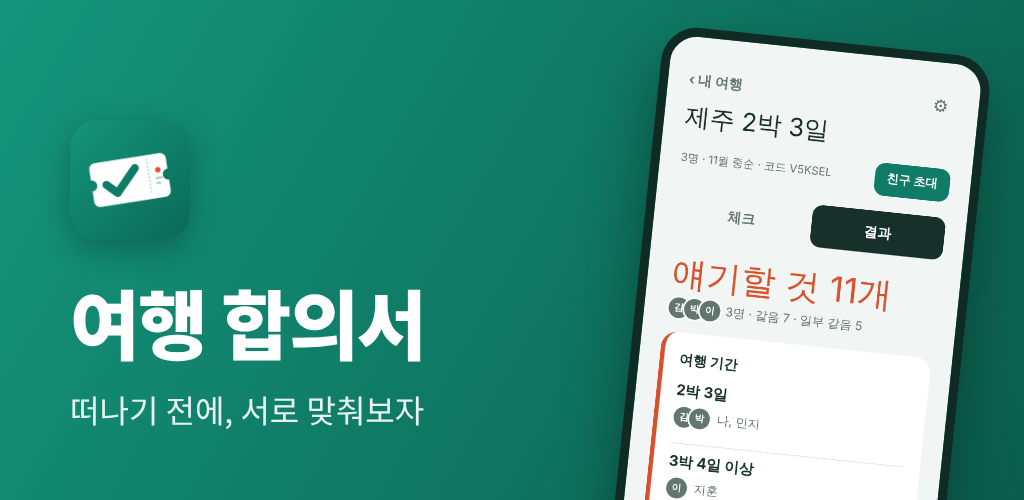
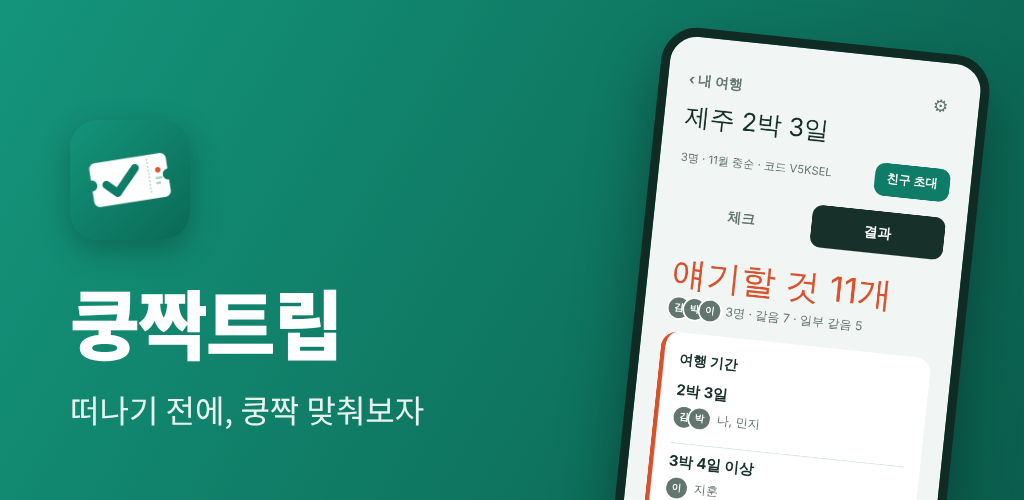
앱 이름을 쿵짝트립으로 변경
앱 이름, 웹 제목, 초대 문구, 개인정보처리방침, 스토어 문구, 그래픽 이미지

Claude-Session: https://claude.ai/code/session_01MvEGxZaX7ktKATiRK7xnPK

Changed region(s): [[0.0625, 0.57, 0.4375, 0.72], [0.2188, 0.78, 0.3125, 0.87]]

diff --git a/src/main.js b/src/main.js
@@ -72,7 +72,7 @@ function renderLogin(msg) {
     btn.disabled = false;
   });
   $('#app').replaceChildren(el('div', { class: 'screen login' },
-    el('div', { class: 'eyebrow', text: '여행 합의서' }),
+    el('div', { class: 'eyebrow', text: '쿵짝트립' }),
     el('h1', { text: '떠나기 전에\n맞춰보자' }),
     el('p', { text: '친구들과 여행 취향을 체크하고, 누가 뭘 골랐는지 한 장으로 비교해요. 바뀐 답은 기록으로 남아요.' }),
     store.get('pendingJoin') ? el('div', { class: 'notice', text: `초대받은 여행(${store.get('pendingJoin')})이 있어요. 로그인하면 바로 들어가요.` }) : null,
@@ -238,12 +238,12 @@ function renderHeaderOnly() {}
 function renderBody() { if (tab === 'mine') renderMine(); else renderAll(); }
 
 async function shareTrip() {
-  const text = `[여행 합의서] '${trip.name}' 같이 체크하자!\n초대 코드: ${trip.code}`
+  const text = `[쿵짝트립] '${trip.name}' 같이 체크하자!\n초대 코드: ${trip.code}`
     + (STORE_URL ? `\n\n갤럭시(안드로이드): 앱 받고 '코드로 참여'\n${STORE_URL}` : '')
     + (WEB_URL ? `\n\n아이폰·PC: 아래 링크 누르면 바로 참여\n${WEB_URL}/?join=${trip.code}` : '');
   const copy = async () => { try { await navigator.clipboard.writeText(text); toast('초대 문구를 복사했어요. 카톡에 붙여넣으세요'); } catch { toast(`초대 코드: ${trip.code}`); } };
   try {
-    if (Capacitor.isNativePlatform()) await Share.share({ title: '여행 합의서 초대', text, dialogTitle: '친구 초대' });
+    if (Capacitor.isNativePlatform()) await Share.share({ title: '쿵짝트립 초대', text, dialogTitle: '친구 초대' });
     else if (navigator.share) await navigator.share({ text });
     else await copy();
   } catch (e) { if (e?.name !== 'AbortError') await copy(); }   // 공유 창이 안 되는 환경이면 복사로

diff --git a/public/privacy.html b/public/privacy.html
@@ -3,7 +3,7 @@
 <head>
 <meta charset="utf-8">
 <meta name="viewport" content="width=device-width, initial-scale=1">
-<title>여행 합의서 개인정보처리방침</title>
+<title>쿵짝트립 개인정보처리방침</title>
 <style>
   :root{--bg:#F1F5F3;--paper:#fff;--ink:#17302A;--muted:#62766F;--accent:#0E7C66}
   @media (prefers-color-scheme:dark){:root{--bg:#0F1917;--paper:#172420;--ink:#E4EEEA;--muted:#97ABA5;--accent:#4CC6A6}}
@@ -17,9 +17,9 @@
 <body>
 <main>
   <h1>개인정보처리방침</h1>
-  <p class="muted">여행 합의서 · 시행일 2026년 10월 26일</p>
+  <p class="muted">쿵짝트립 · 시행일 2026년 10월 26일</p>
 
-  <p>여행 합의서(이하 "앱")는 친구들과 여행 취향을 체크하고 비교하는 서비스예요. 서비스에 꼭 필요한 정보만 받고, 다른 목적으로 쓰거나 팔지 않아요.</p>
+  <p>쿵짝트립(이하 "앱")은 친구들과 여행 취향을 체크하고 비교하는 서비스예요. 서비스에 꼭 필요한 정보만 받고, 다른 목적으로 쓰거나 팔지 않아요.</p>
 
   <h2>1. 받는 정보</h2>
   <table>

diff --git a/index.html b/index.html
@@ -3,7 +3,7 @@
 <head>
   <meta charset="utf-8">
   <meta name="viewport" content="width=device-width, initial-scale=1, viewport-fit=cover">
-  <title>여행 합의서</title>
+  <title>쿵짝트립</title>
   <link rel="preconnect" href="https://fonts.googleapis.com">
   <link rel="stylesheet" href="https://fonts.googleapis.com/css2?family=Do+Hyeon&family=Gothic+A1:wght@400;600;800&display=swap">
   <link rel="stylesheet" href="/src/style.css">

diff --git a/docs/RELEASE.md b/docs/RELEASE.md
@@ -44,7 +44,7 @@ https://console.cloud.google.com
 
 1. 위쪽 프로젝트 선택 → **새 프로젝트** → 이름 `trip-agree` → 만들기
 2. 왼쪽 메뉴 **API 및 서비스 → OAuth 동의 화면**(새 화면에서는 **Google 인증 플랫폼**) → **시작하기**
-   - 앱 이름: `여행 합의서` / 사용자 지원 이메일: 내 이메일
+   - 앱 이름: `쿵짝트립` / 사용자 지원 이메일: 내 이메일
    - 대상: **외부** / 연락처 이메일: 내 이메일 → 만들기
 3. **브랜딩**
    - 앱 홈페이지: `https://trip-agree.netlify.app`
@@ -102,7 +102,7 @@ npm run android
 ## 6. Play Console
 
 https://play.google.com/console → **앱 만들기**
-- 앱 이름 `여행 합의서` / 기본 언어 한국어 / 앱 / 무료
+- 앱 이름 `쿵짝트립` / 기본 언어 한국어 / 앱 / 무료
 
 ### 대시보드의 "앱 설정" 항목
 | 항목 | 넣을 값 |

diff --git a/docs/STORE.md b/docs/STORE.md
@@ -1,14 +1,14 @@
 # Play 스토어 등록정보 문구
 
 ## 앱 이름 (30자)
-여행 합의서
+쿵짝트립
 
 ## 간단한 설명 (80자)
 친구들과 여행 취향을 체크하고, 갈린 의견만 한눈에. 떠나기 전에 서로 맞춰보세요.
 
 ## 자세한 설명 (4000자)
 여행 가기 전에 "나 그런 말 안 했는데?" 하고 싸운 적 있나요?
-여행 합의서는 친구들이 각자 여행 취향을 체크하고, 누가 뭘 골랐는지 한 장으로 비교하는 앱이에요.
+쿵짝트립은 친구들이 각자 여행 취향을 체크하고, 누가 뭘 골랐는지 한 장으로 비교하는 앱이에요.
 
 ■ 한 장에 한 질문
 여행 기간, 예산, 숙소, 하루 동선, 술, 사진까지 26가지 질문을 카드로 하나씩 넘기며 답해요. 하나만 고르는 질문은 누르면 바로 다음으로 넘어가요.
